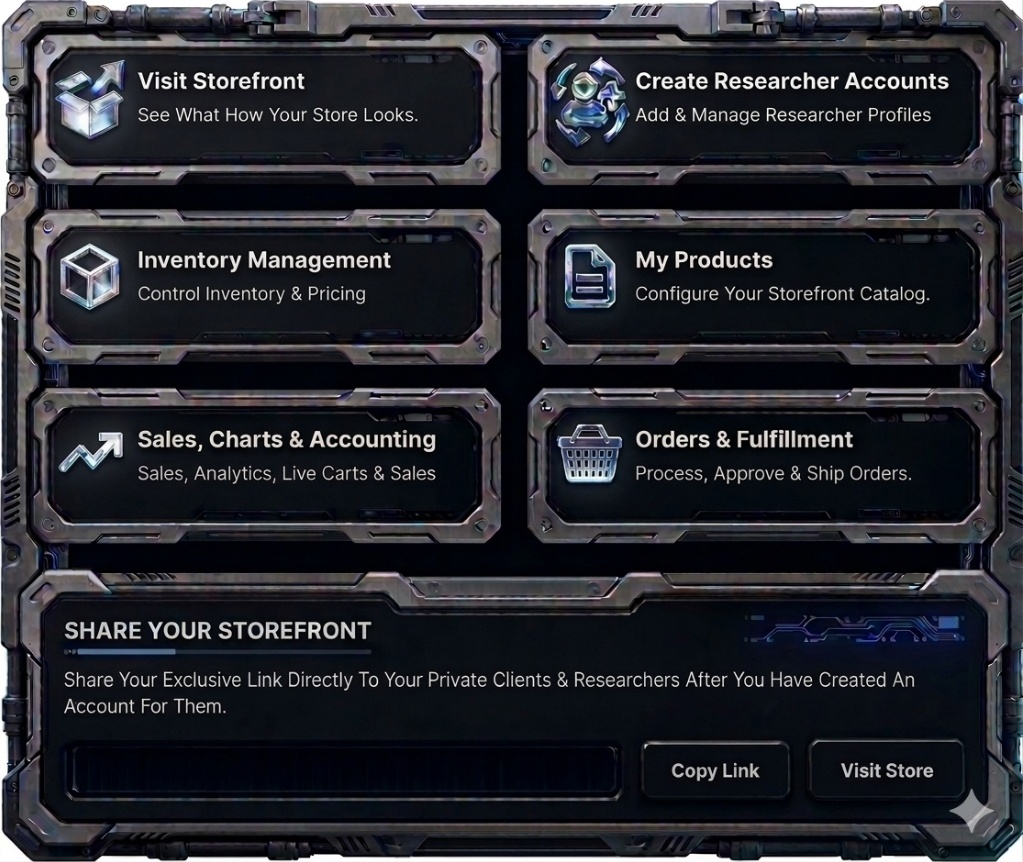
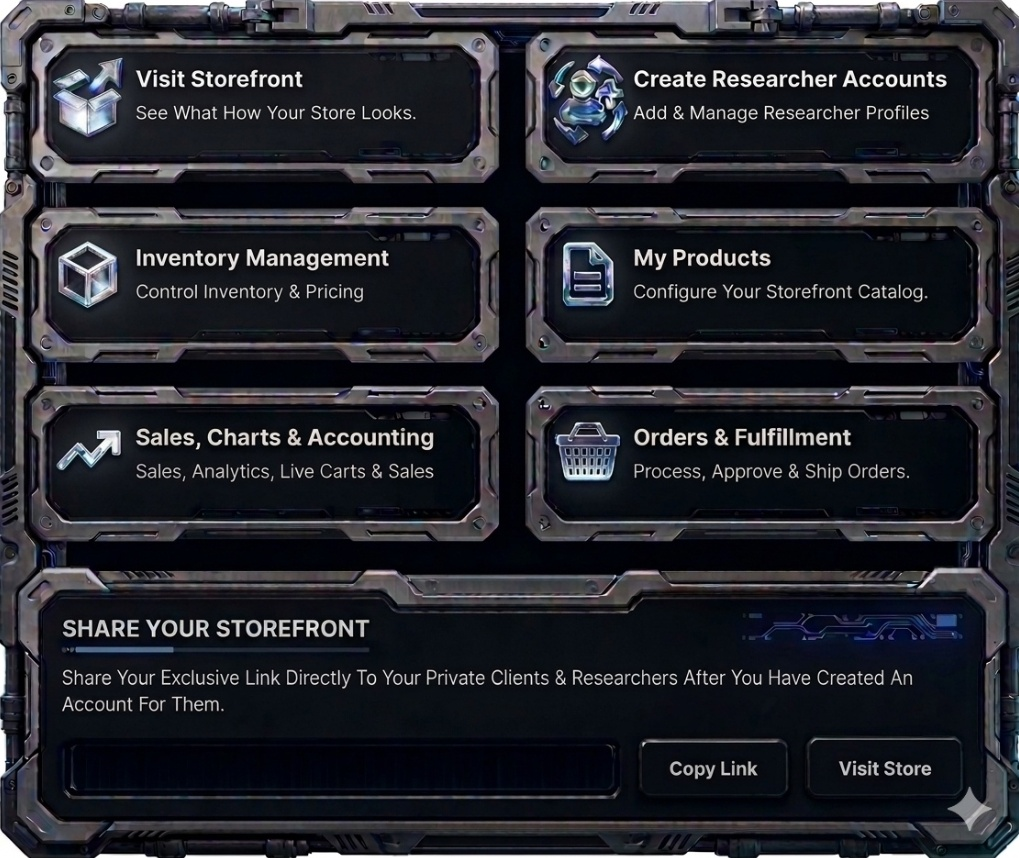
fix: Eliminate all white edges, fix URL inside frame, reposition button zones

diff --git a/components/AgentOverview.tsx b/components/AgentOverview.tsx
@@ -111,36 +111,36 @@ export default function AgentOverview({
           />
         ))}
 
-        {/* Dynamic storefront URL — inside the dark input frame, doubled size */}
+        {/* Dynamic storefront URL — centered inside the dark input frame */}
         <span
           className="dash-url"
           style={{
-            bottom: '9%',
-            left: '5.5%',
-            width: '44%',
+            bottom: '6%',
+            left: '6%',
+            width: '50%',
             height: '5%',
-            fontSize: 'clamp(0.7rem, 2.2vw, 1.1rem)',
+            fontSize: 'clamp(0.65rem, 2vw, 1.05rem)',
           }}
         >
           {storefrontUrl}
         </span>
 
-        {/* Invisible clickable zone over "Copy Link" button */}
+        {/* Invisible clickable zone over "Copy Link" — moved up and right */}
         <button
           className="dash-btn-zone"
           onClick={copyStorefrontLink}
           aria-label={copiedStorefront ? 'Link Copied' : 'Copy Link'}
-          style={{ bottom: '5%', right: '26%', width: '14%', height: '5.5%' }}
+          style={{ bottom: '7%', right: '20%', width: '14%', height: '5.5%' }}
         />
 
-        {/* Invisible clickable zone over "Visit Store" button */}
+        {/* Invisible clickable zone over "Visit Store" — moved up */}
         <a
           href={storefrontUrl}
           target="_blank"
           rel="noopener noreferrer"
           className="dash-btn-zone"
           aria-label="Visit Store"
-          style={{ bottom: '5%', right: '7%', width: '14%', height: '5.5%' }}
+          style={{ bottom: '7%', right: '5%', width: '13%', height: '5.5%' }}
         />
       </div>
     </>
